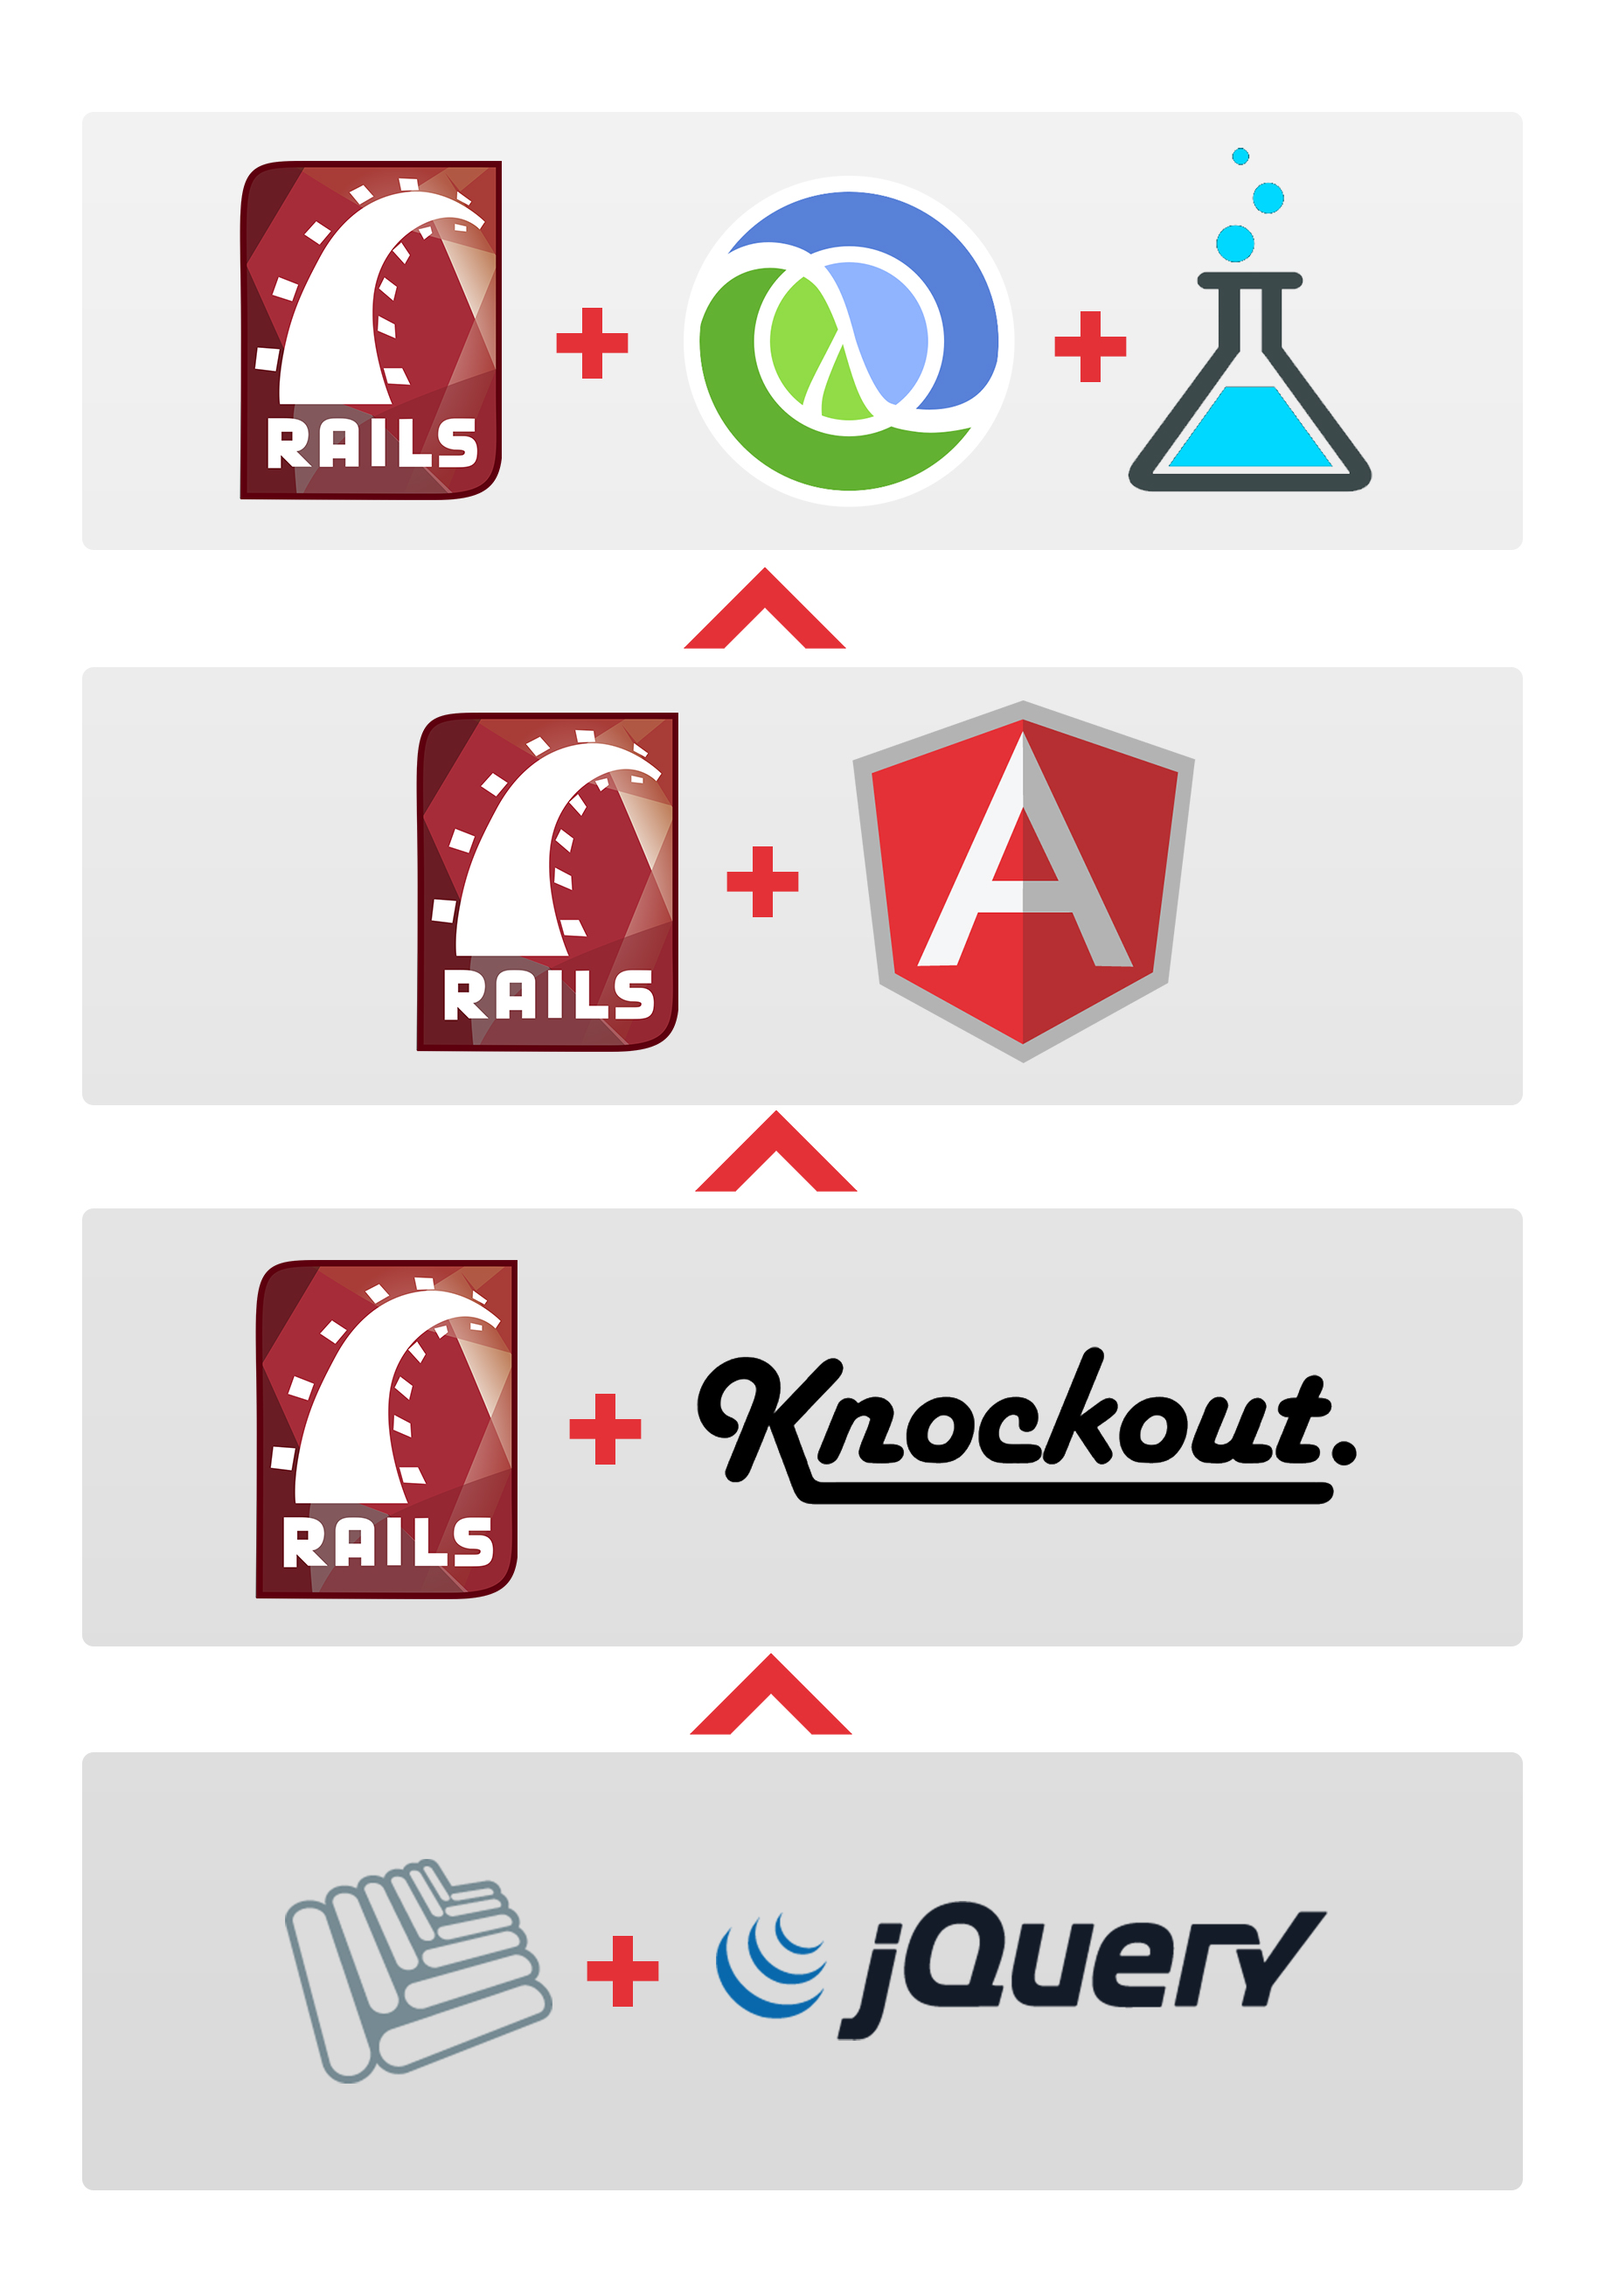
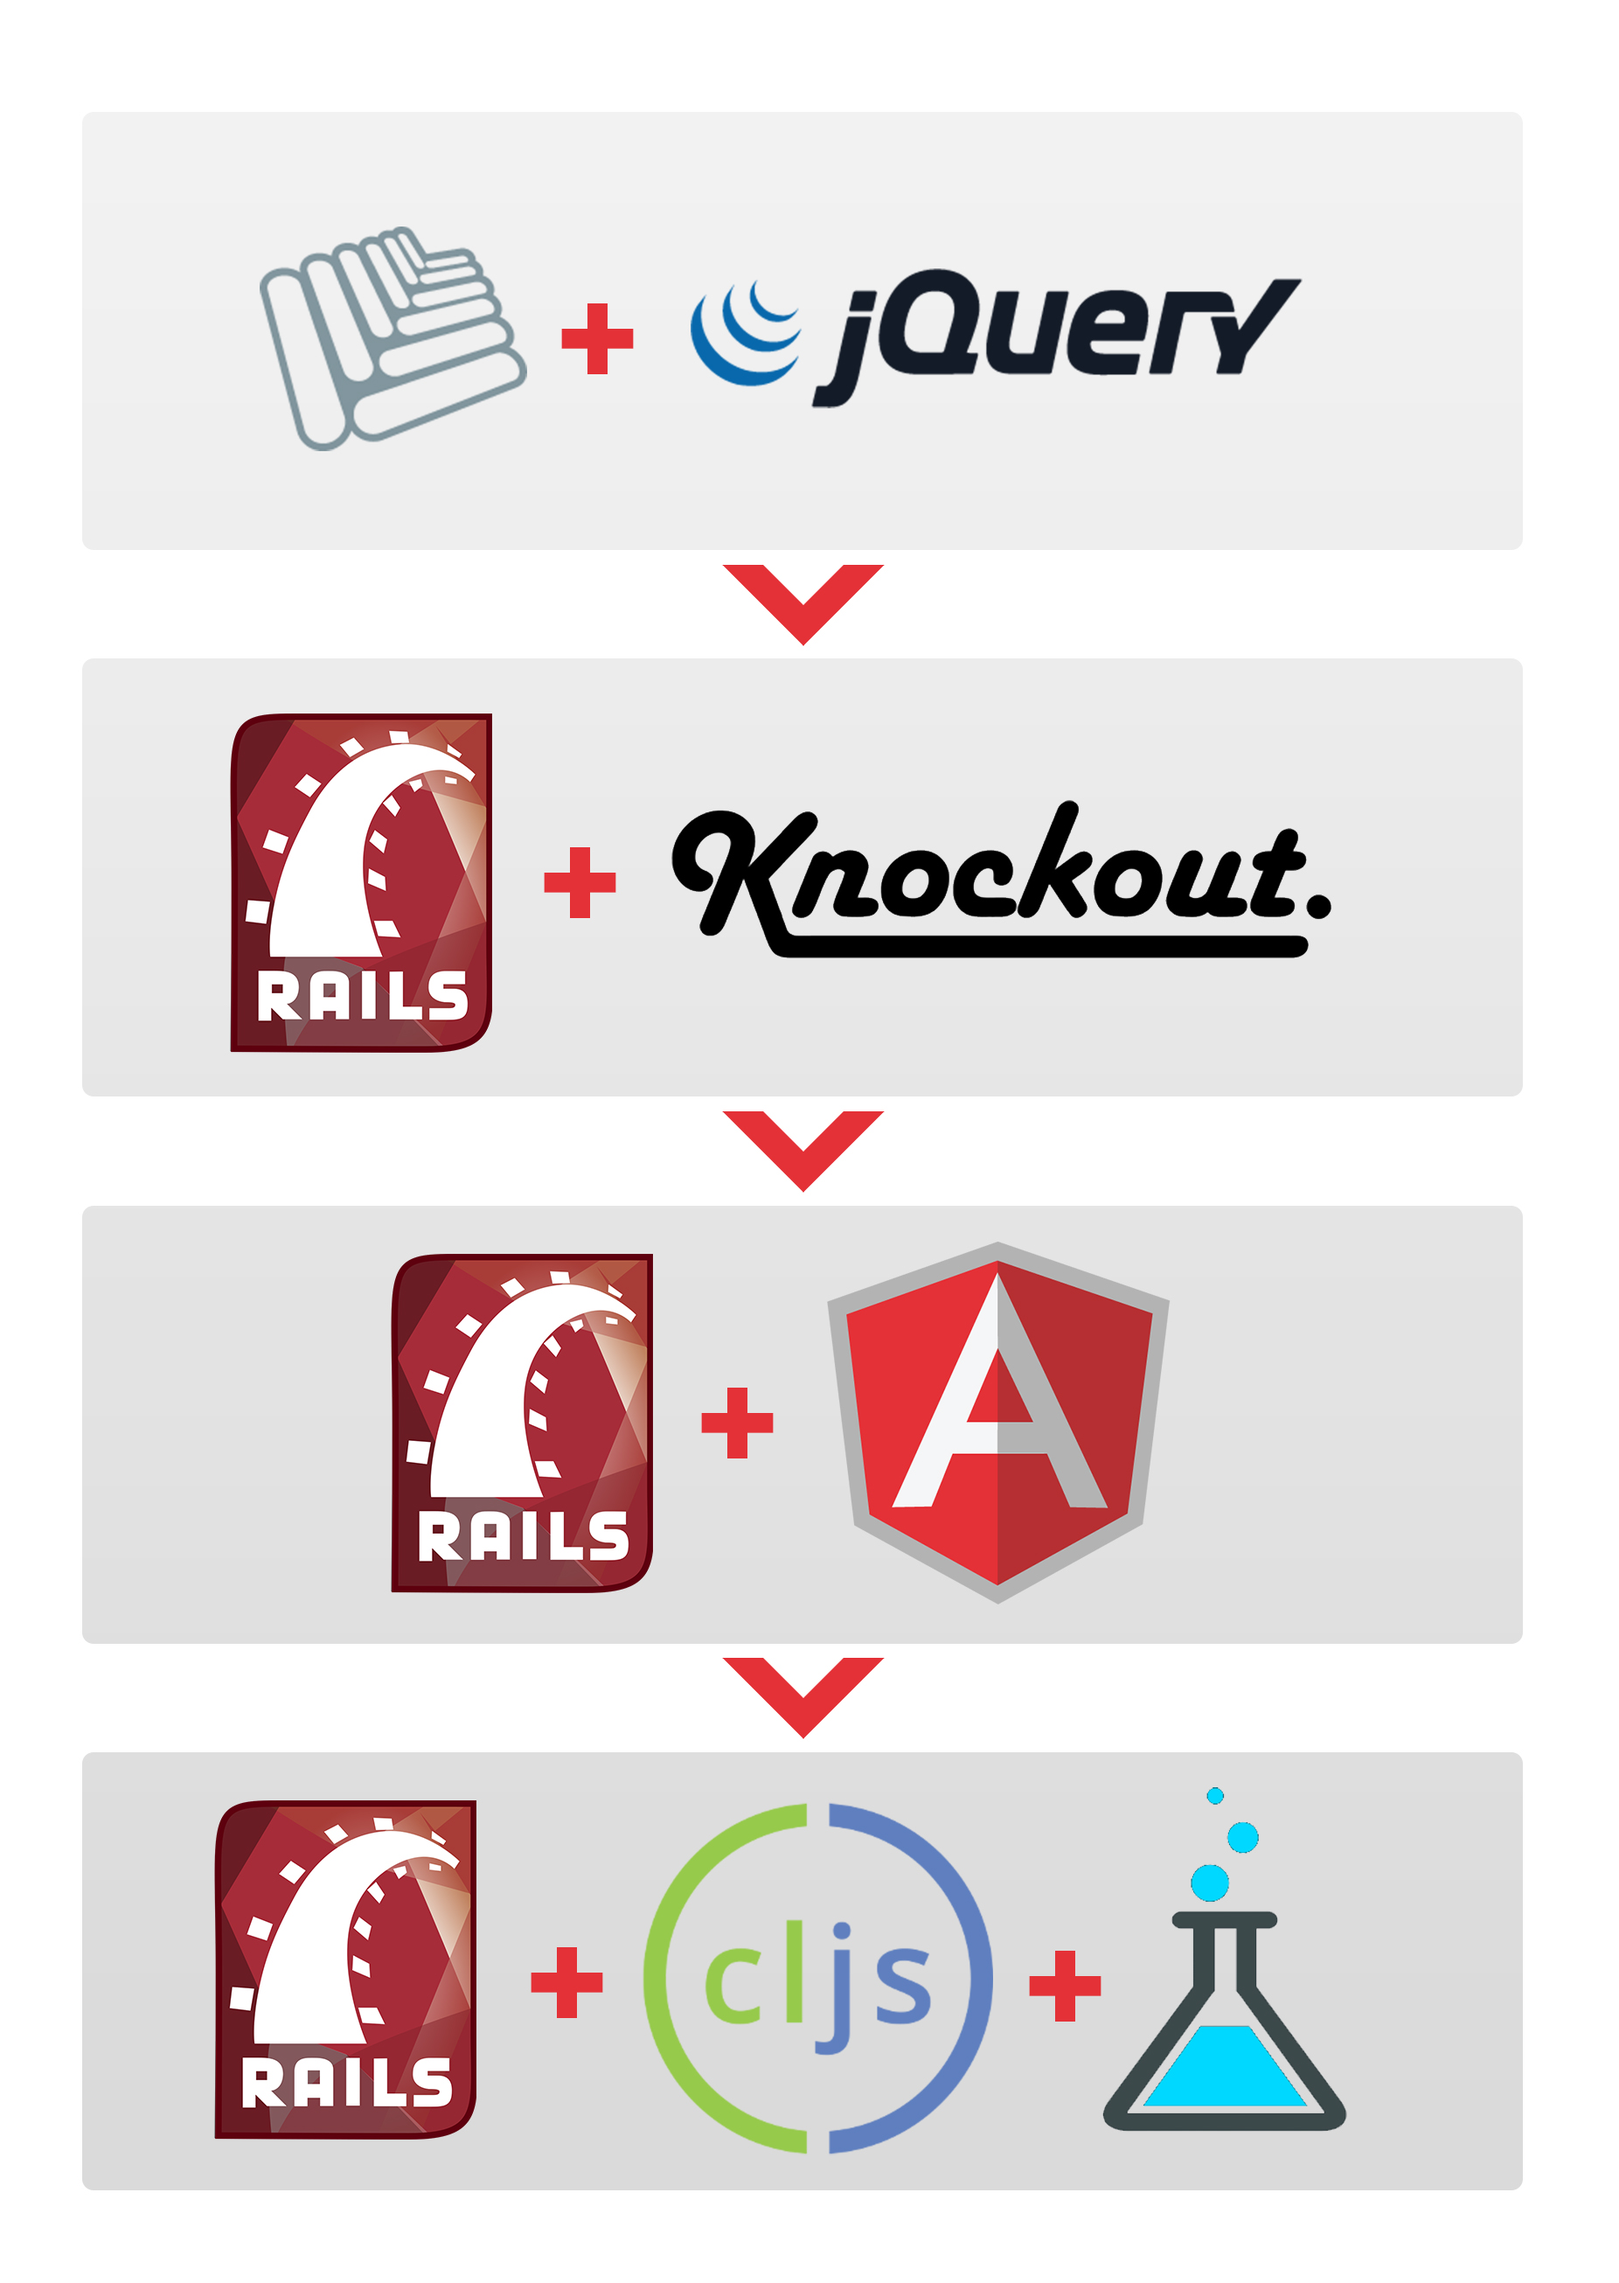
Images!

diff --git a/resources/public/css/customizations.css b/resources/public/css/customizations.css
@@ -11,6 +11,10 @@ h1, h2, h3, h4, h5 {
         height: 10rem;
 }
 
+.slide-3 img {
+        height: 46rem;
+}
+
 .slide-4 img {
         height: 45rem;
 }

diff --git a/PRESENTATION.md b/PRESENTATION.md
@@ -17,6 +17,8 @@
 
 # Stack overview
 
+## ![](img/stack-overview.jpg)
+
 <!--slide-->
 
 # Frontend stack evolution
